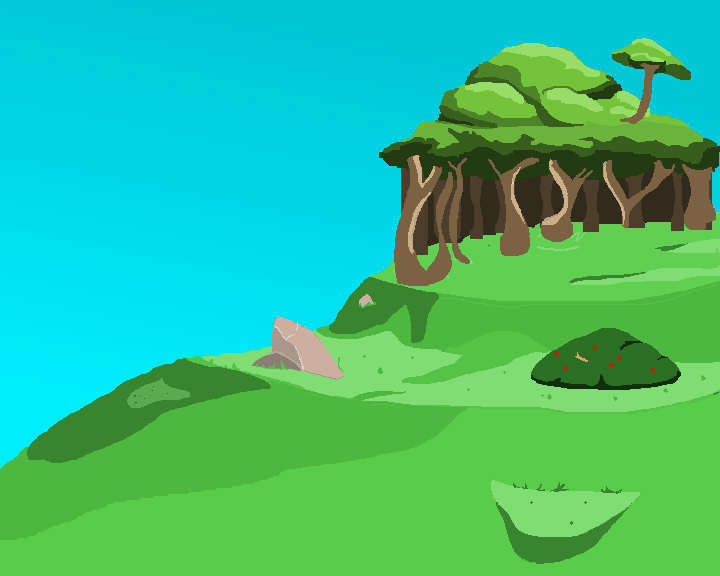
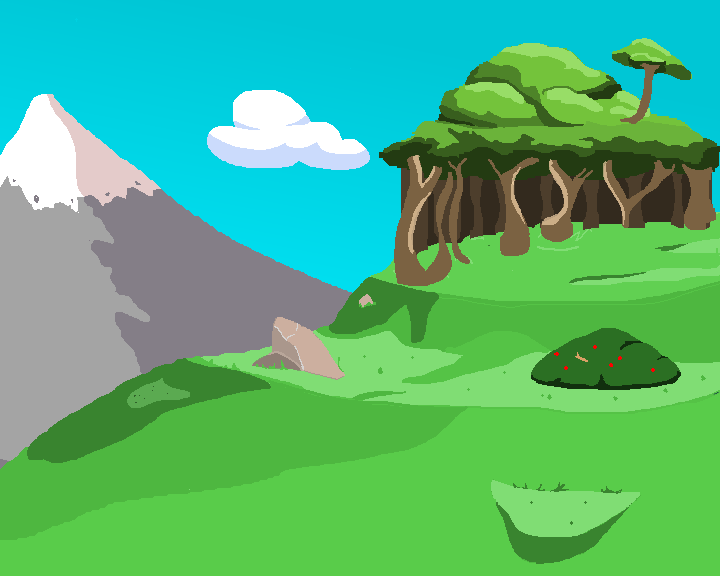
added art

Changed region(s): [[0.0, 0.1562, 0.4889, 0.8125], [0.275, 0.1562, 0.5194, 0.3125], [0.9167, 0.375, 0.9472, 0.4062]]

diff --git a/Gradded-Unit/src/com/FuturePixels/Drawables/Menus/Button.java b/Gradded-Unit/src/com/FuturePixels/Drawables/Menus/Button.java
@@ -58,7 +58,7 @@ public class Button extends IDrawable {
     @Override
     public void Update(Graphics2D g) {
         DrawLastLoadedImage(g);
-        g.setColor(Color.red);
+        g.setColor(new Color(128,0,128));
         FontMetrics metrics = g.getFontMetrics(g.getFont());
         g.drawString(Message, -metrics.stringWidth(Message) / 2, 0);
         if (isColliding()) {
